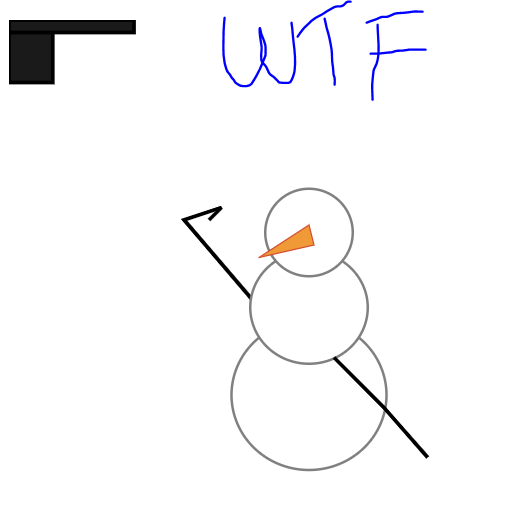
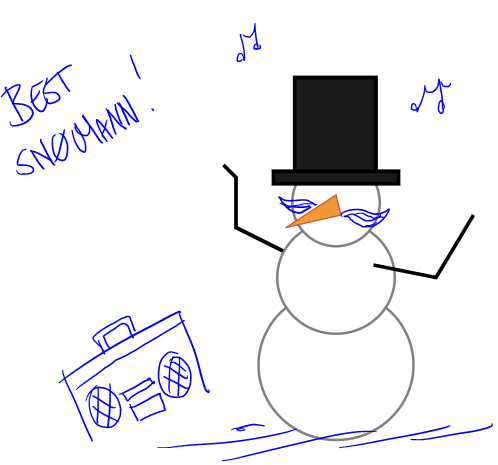
BUTTONS

diff --git a/SVGtest.html b/SVGtest.html
@@ -13,8 +13,8 @@
         <ellipse cx="240" cy="170" rx="35" ry="35" style="fill:white;stroke: grey;stroke-width: 2px;"/>
         <polygon points="240,164 244,180 200, 190" style="fill:rgb(240, 154, 55);stroke:rgb(211, 79, 46);stroke-width:1"/>
         <polyline points="270,220 320, 230 350, 180" style="fill:none;stroke:black;stroke-width:3" />
-        <rect width="35" height="50" style="fill:rgb(26, 26, 27);stroke-width:3;stroke:rgb(0,0,0)"/>
-        <rect width="100" height="10" style="fill:rgb(26, 26, 27);stroke-width:3;stroke:rgb(0,0,0)"/>
+        <rect x="207" y="70" width="65" height="80" style="fill:rgb(26, 26, 27);stroke-width:3;stroke:rgb(0,0,0)"/>
+        <rect x="190" y="145" width="100" height="10" style="fill:rgb(26, 26, 27);stroke-width:3;stroke:rgb(0,0,0)"/>
     </svg>
 </body>
 </html>

diff --git a/test.html b/test.html
@@ -19,7 +19,7 @@
 </head>
 <body>
     <h1>HEEEEEEEEEEEI</h1>
-    <img src="https://upload.wikimedia.org/wikipedia/commons/thumb/3/3a/Cat03.jpg/1200px-Cat03.jpg" alt="catte" width="220" style="float: right;">
+    <a href="https://en.wikipedia.org/wiki/Cat"> <img src="https://upload.wikimedia.org/wikipedia/commons/thumb/3/3a/Cat03.jpg/1200px-Cat03.jpg" alt="catte" width="220" style="float: right;"></a>
     <p title="Men bare nesten"><i>NÅ</i> fungerer det!</p>
     <p style="color: coral;">Er dette det vi skal?</p>
     <hr>
@@ -30,6 +30,7 @@
         <li>Lett å dele kunsten min</li>
         <li>Lett å kontakte andre kunstnere</li>
     </ul>
+    <button onclick="document.location='https://ko-fi.com/ektetrolldom0564'"">Ko-Fi portfolio</button>
     <hr>
 </body>
 </html>
